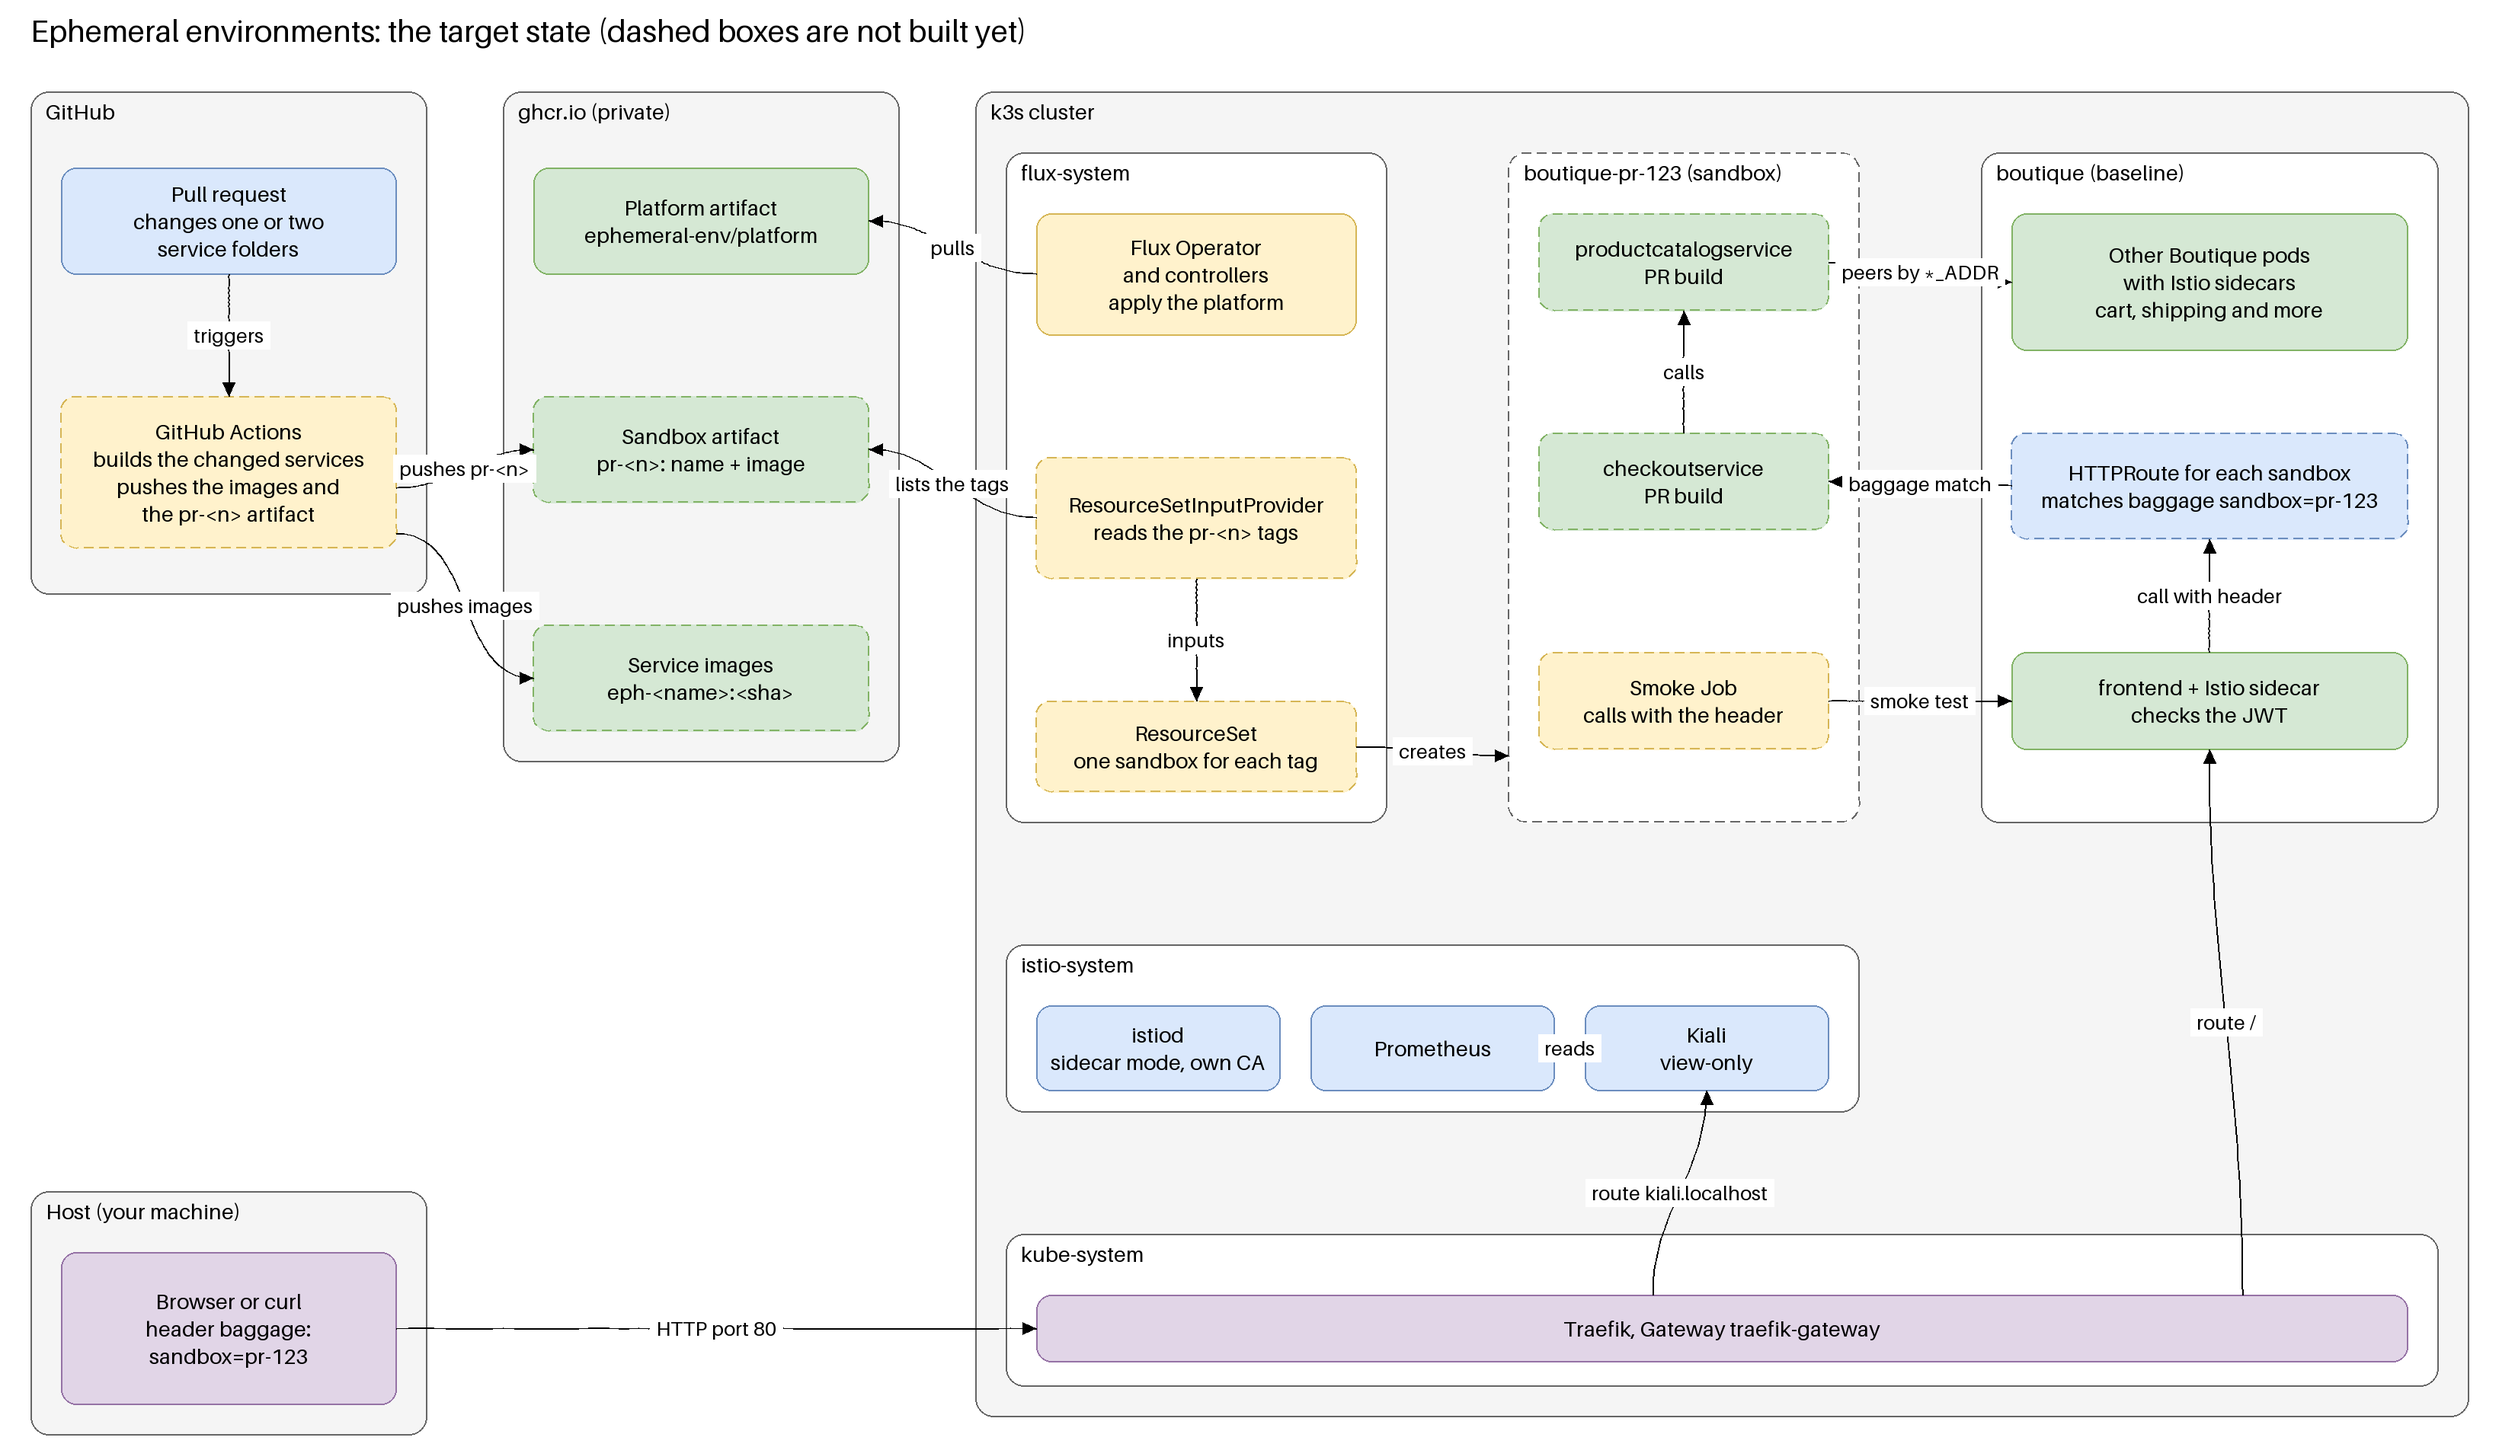
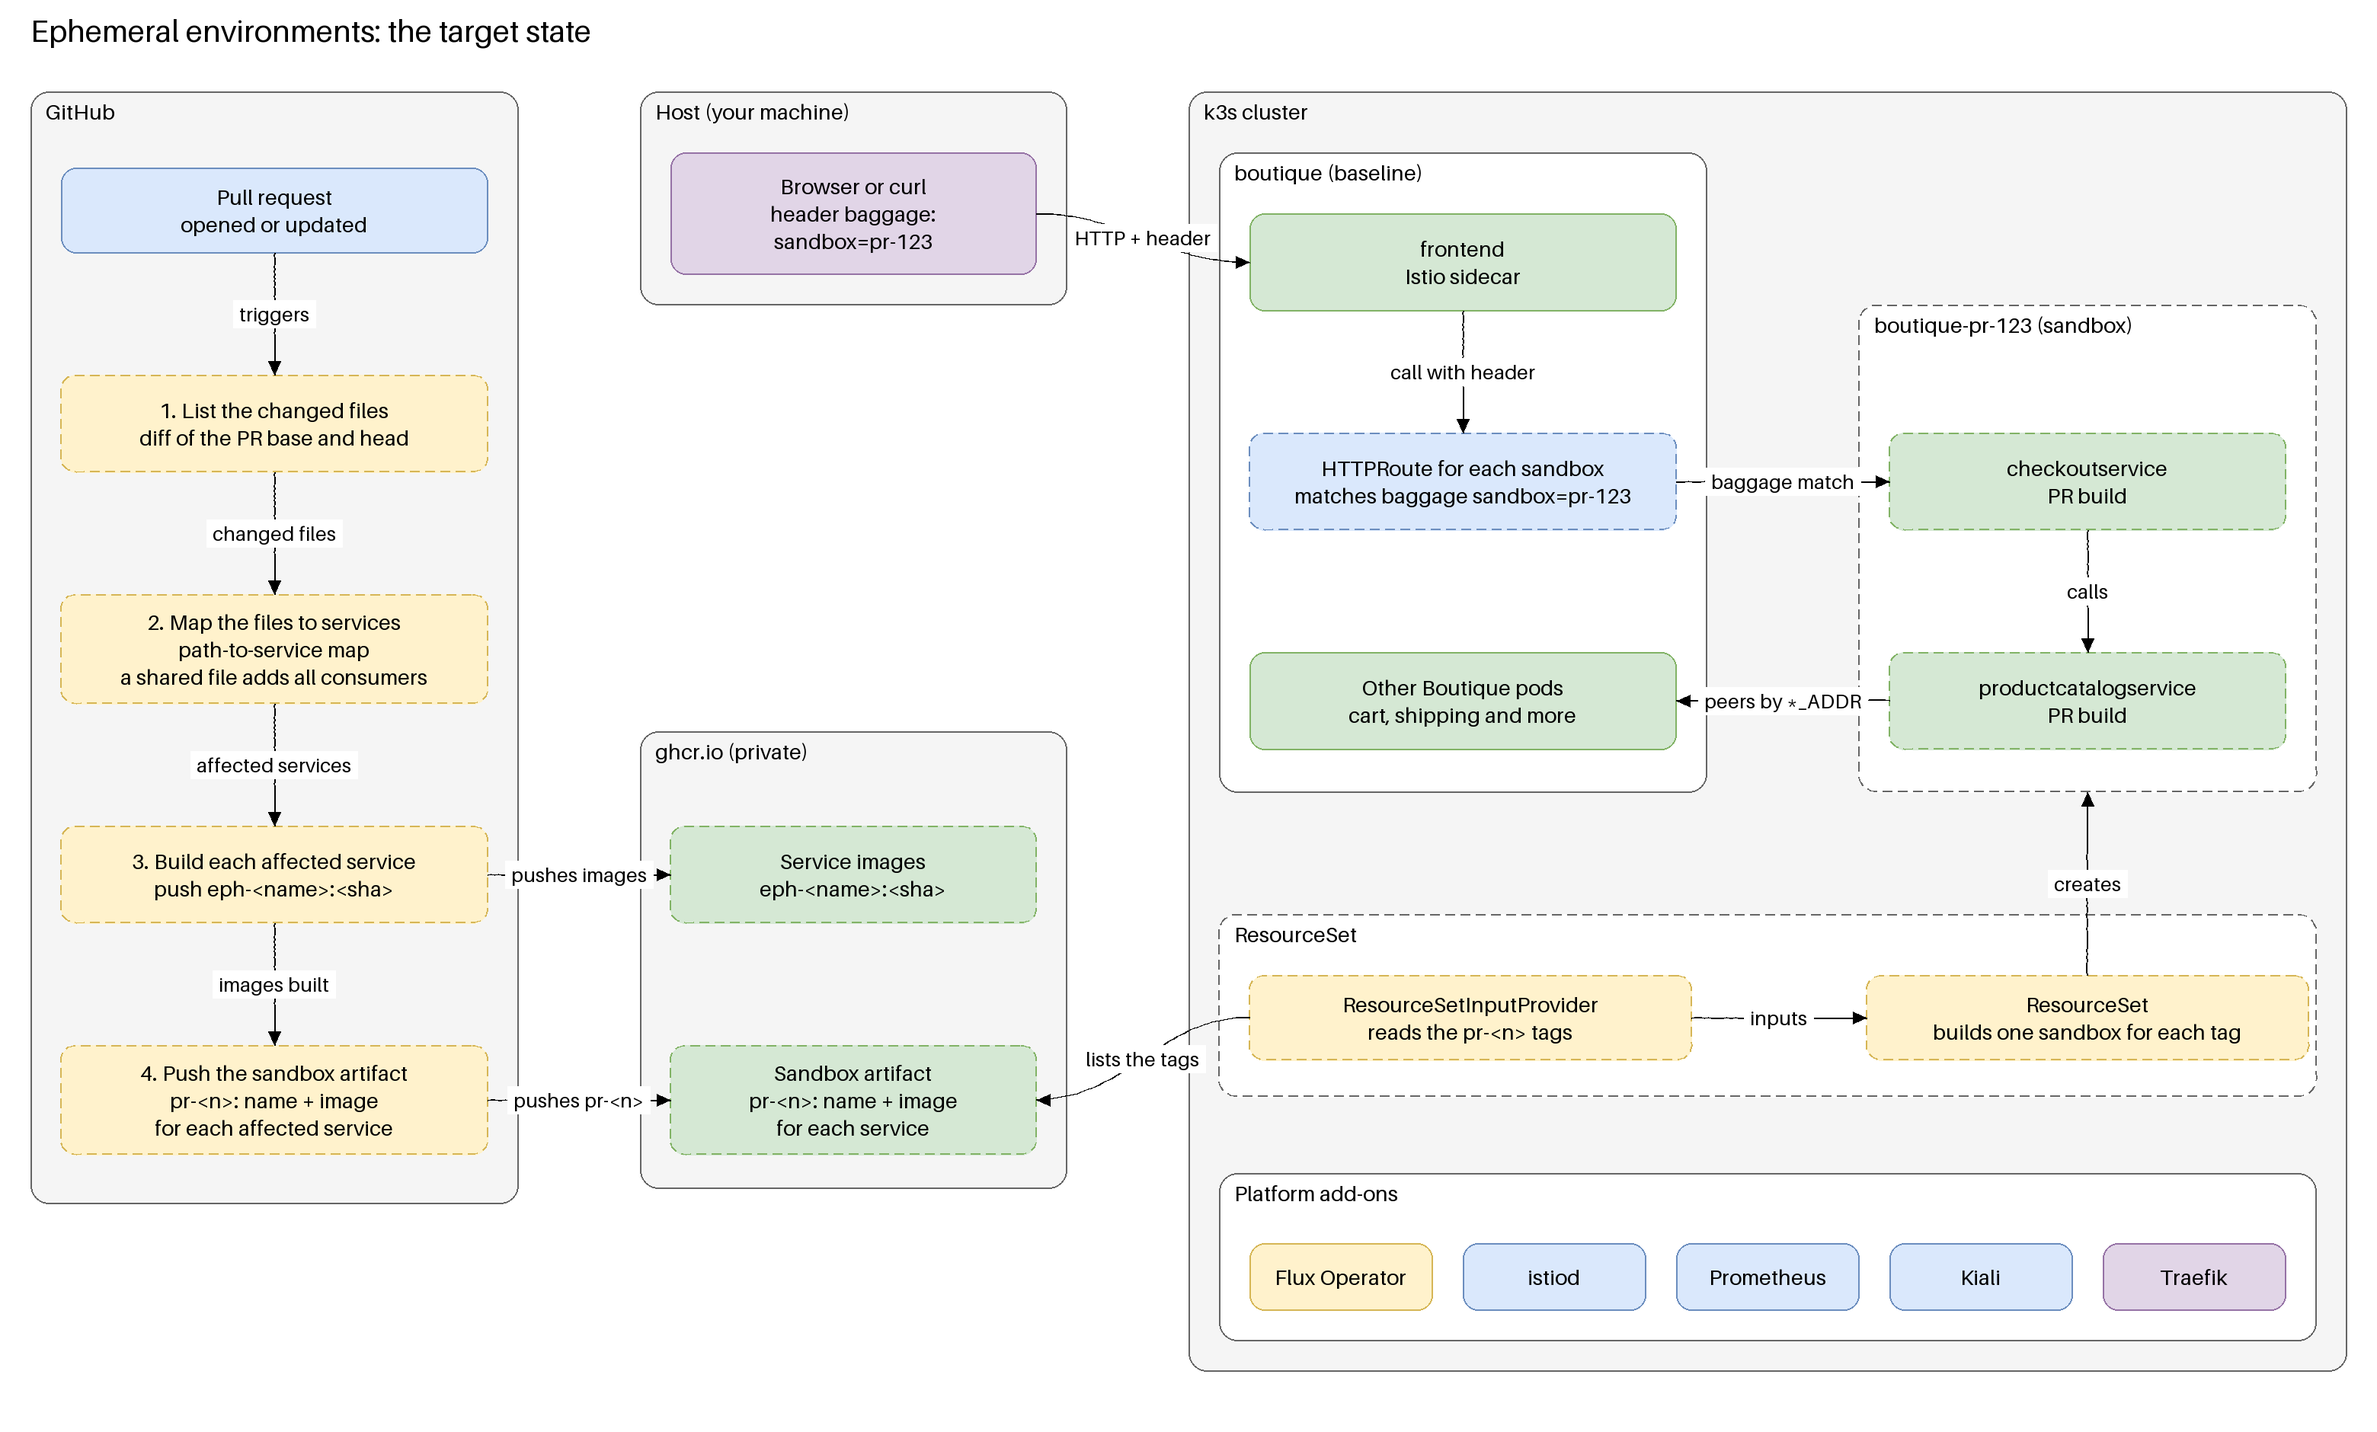
ephemeral-env: simplify the target-state diagram and show how CI finds the affected services

diff --git a/code/ephemeral-env/docs/platform.md b/code/ephemeral-env/docs/platform.md
@@ -3,6 +3,7 @@
 ## The idea
 
 - A pull request that changes one or two Online Boutique services gets its own short-lived sandbox. The sandbox runs only the changed services. All other services come from a shared baseline.
+- CI finds the affected services from the diff of the pull request and builds only those.
 - Istio carries the calls between the baseline and a sandbox. Kiali draws them.
 - The platform under this idea is a fresh k3s cluster. It has Traefik as ingress, Istio as the mesh, Prometheus and Kiali for the graph, and the Boutique as the baseline.
 - Flux delivers the platform from one OCI artifact in a private registry. Git holds the source. The cluster never reads Git. This is the gitless model.
@@ -12,7 +13,7 @@
 
 ![The target state of the ephemeral environments](diagrams/architecture.svg)
 
-The picture shows the target state. The solid boxes exist in this repo. The dashed boxes are the sandbox flow, which is not built yet. A sandbox request enters through Traefik with a `baggage` header. The baseline route sends the call to the sandbox service, and the sandbox service calls the baseline peers.
+The picture shows the target state. The solid boxes exist in this repo. The dashed boxes are the sandbox flow, which is not built yet. A sandbox request carries a `baggage` header. The baseline route sends the call to the sandbox service, and the sandbox service calls the baseline peers.
 
 ## The cast
 
@@ -21,8 +22,12 @@ On the host (your machine):
 - `flux push artifact`: pushes `platform/` to the registry. `just publish` calls it.
 - A browser: opens the shop and Kiali.
 
+On GitHub (planned):
+- GitHub Actions: lists the files that a pull request changes, finds the affected services, builds them and pushes the sandbox artifact.
+
 In the registry `ghcr.io` (private):
 - The artifact `ghcr.io/raghav19/ephemeral-env/platform`. It holds a copy of `platform/` and the Git revision that it came from.
+- The service images and one sandbox artifact for each pull request (planned).
 
 In the cluster, by namespace:
 - `kube-system`: Traefik, with the Gateway `traefik-gateway`. k3s installs both.
@@ -101,12 +106,32 @@ sequenceDiagram
 
 The `loadgenerator` pod sends requests to the frontend all the time, so the Kiali graph of the namespace `boutique` has traffic without a browser. Flux checks the artifact tag and re-applies the platform on its own timers (see "Lifetimes").
 
+### Phase 5: each pull request (planned, not built yet)
+
+```mermaid
+sequenceDiagram
+    actor Dev
+    participant CI as GitHub Actions
+    participant GHCR as ghcr.io
+    participant Flux as ResourceSet in the cluster
+    Dev->>CI: open or update the pull request
+    CI->>CI: list the files that the PR changes (base and head)
+    CI->>CI: map each file to a service (path-to-service map)
+    CI->>GHCR: push eph-NAME:SHA for each affected service
+    CI->>GHCR: push the artifact pr-N (name + image for each service)
+    Flux->>GHCR: list the pr-N tags
+    Flux->>Flux: build the namespace boutique-pr-N
+```
+
+CI lists the files that the pull request changes. A path-to-service map turns each file into a service folder under `services/`. A change in a shared file, such as `protos/demo.proto`, adds every service that uses it. Only the affected services build. The sandbox artifact lists each one with its image, and the `ResourceSet` builds one sandbox from that list.
+
 ## Lifetimes
 
 - **`GHCR_TOKEN`**: lives in your shell. You make it and you revoke it.
 - **`GHCR_PULL_TOKEN`**: lives in the cluster Secret `ghcr-pull` until you delete the namespace `flux-system`.
 - **A tag `<branch>-<sha8>`**: stays in the registry until you delete it. `latest` moves each time you publish from `main`.
 - **The sync**: Flux checks the artifact tag every minute (the default of the `FluxInstance` sync). The three child Kustomizations reconcile every 10 minutes.
+- **A sandbox tag `pr-N` (planned)**: lives until the pull request closes. A scheduled sweep deletes tags that no open pull request owns.
 - **Prometheus data**: lives in an `emptyDir`. A pod restart loses it.
 - **The Istio CRDs and the namespace `istio-system`**: Flux never prunes them.
 
@@ -127,6 +152,8 @@ The `loadgenerator` pod sends requests to the frontend all the time, so the Kial
 - **host**: the machine that runs k3s and the recipes. A sandbox VM is not the host.
 - **baseline**: the Boutique in the namespace `boutique`.
 - **sandbox**: the short-lived environment of one pull request. It is not built yet.
+- **affected service**: a service whose files the pull request changes, or that uses a changed shared file.
+- **path-to-service map**: the list that tells CI which service owns which path.
 - **`latest`**: the tag that `FluxInstance.spec.sync.ref` follows by default.
 - **`ghcr-pull`**: the Secret that Flux uses to pull from the private registry.
 - **`kiali.localhost`**: the host name of the Kiali route. A browser resolves it to the loopback address.

diff --git a/docs/research/ephemeral-env-platform-gaps.md b/docs/research/ephemeral-env-platform-gaps.md
@@ -36,4 +36,5 @@ Source: the files in `code/ephemeral-env`, the Flux docs for the controller opti
 
 - **The result check of a sandbox.** The cluster runs on a laptop. A GitHub-hosted runner cannot reach it. The two options are a self-hosted runner (a risk on a public repo) and a Flux commit status.
 - **Central config.** The user wants versions and settings in one config with setters, as in part 3. Part 3 does this with a Python tool and many recipes. The choice is to reuse those tools or to write a small `kustomize` setter.
+- **The changed-file step.** No workflow exists. The way that CI lists the changed files (a `git diff` or the GitHub API) and the path-to-service map are a design only.
 - **Pull of sandbox images.** The plan is a k3s `registries.yaml`. It comes from memory and nobody checked it.

diff --git a/code/ephemeral-env/docs/diagrams/README.md b/code/ephemeral-env/docs/diagrams/README.md
@@ -2,5 +2,5 @@
 
 | File | Use |
 |---|---|
-| `architecture.drawio` | The source of the target-state diagram in the [README](../../README.md) and in [the platform doc](../platform.md). Dashed boxes are not built yet. Open it in draw.io and edit it. |
+| `architecture.drawio` | The source of the target-state diagram in the [README](../../README.md) and in [the platform doc](../platform.md). Solid boxes exist. Dashed boxes are not built yet. Open it in draw.io and edit it. |
 | `architecture.svg`, `architecture.png` | The same diagram as images. A script drew them from the same coordinates as the `.drawio` file, with plain boxes and simple curves. After an edit of the `.drawio` file, export new images from draw.io. The PNG is 2x with a white background. |
